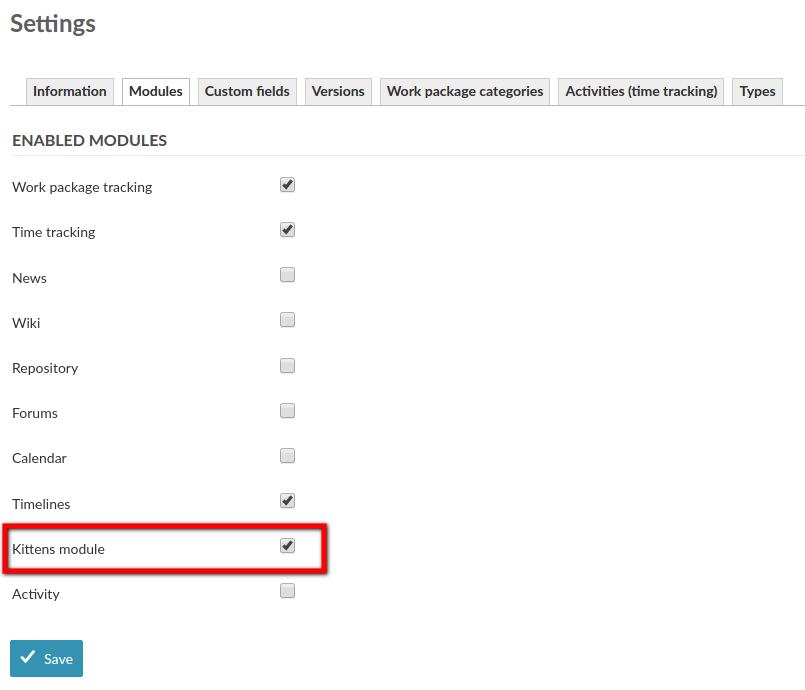
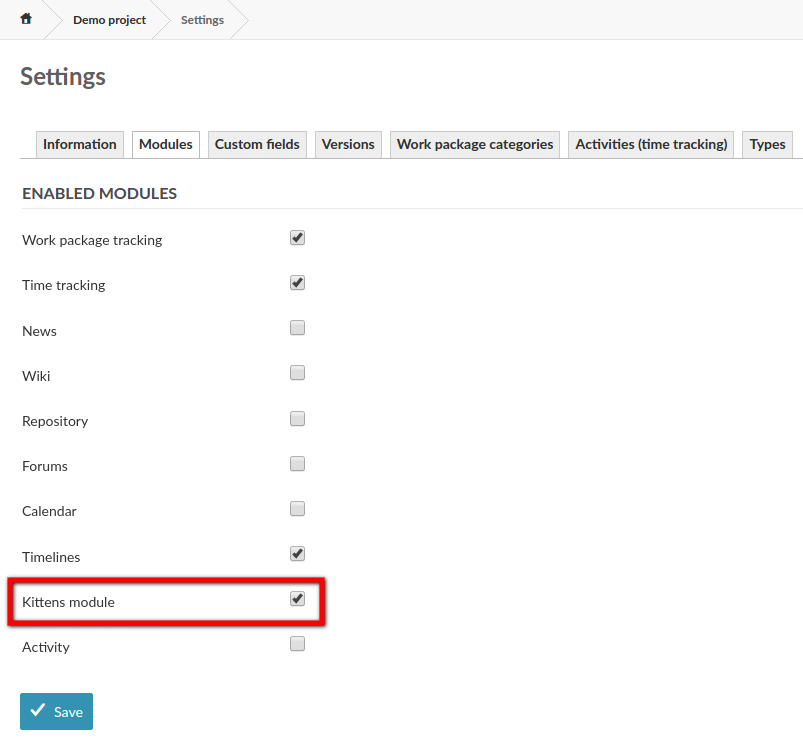
Updated readme kittens module menu item including screenshots.

diff --git a/README.md b/README.md
@@ -127,6 +127,14 @@ menu :project_menu,
 end
 ```
 
+You are then free to enable the "Kittens module" for a given project by going to that "Project settings" page, for example `/projects/demo-project/settings/modules` and checking the checkbox.
+
+![](images/enable-kittens-module.png?raw=true | width=400)
+
+The menu item will now appear on the top level project page as well as all sub-levels `/projects/demo-project/*`.
+
+![](images/kittens-menu-item.png?raw=true | width=400)
+
 You can add nested menu items by passing a `parent` option to the following items. For instance you could add a child menu item to the menu item shown above by adding `parent: :kittens` as another option.
 
 Menus:
@@ -137,10 +145,6 @@ Menus:
 * my_menu
 * admin_menu
 * project_menu
-
-_Note: the example menu item registered in this plugin is only visible if you enable the "Kittens module" in a project under "Project settings"._
-
-![](images/enable-kittens-module.png?raw=true | width=400)
 
 
 ## Homescreen Blocks
